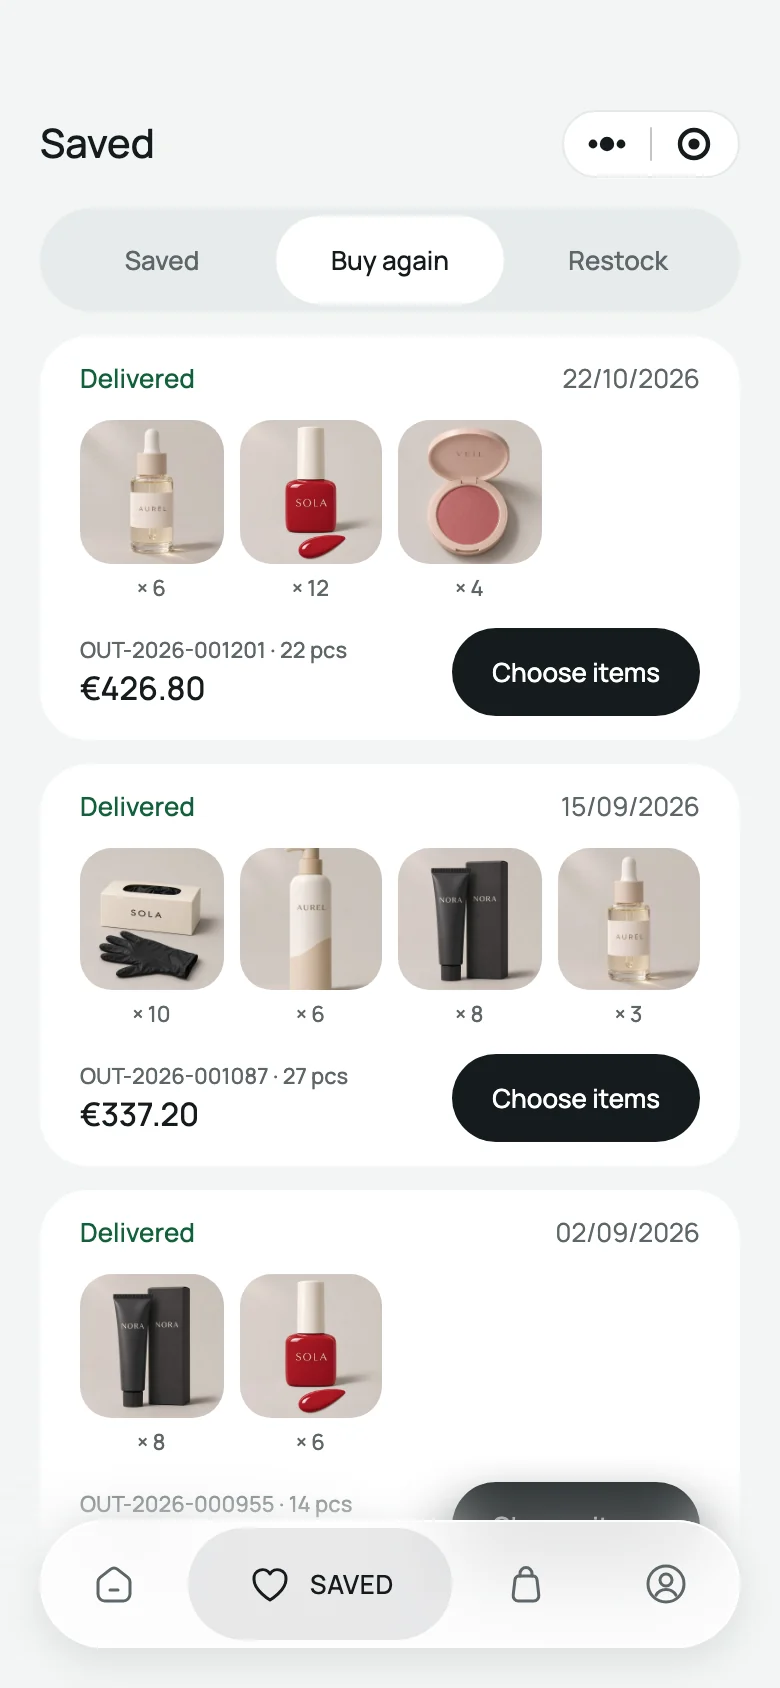
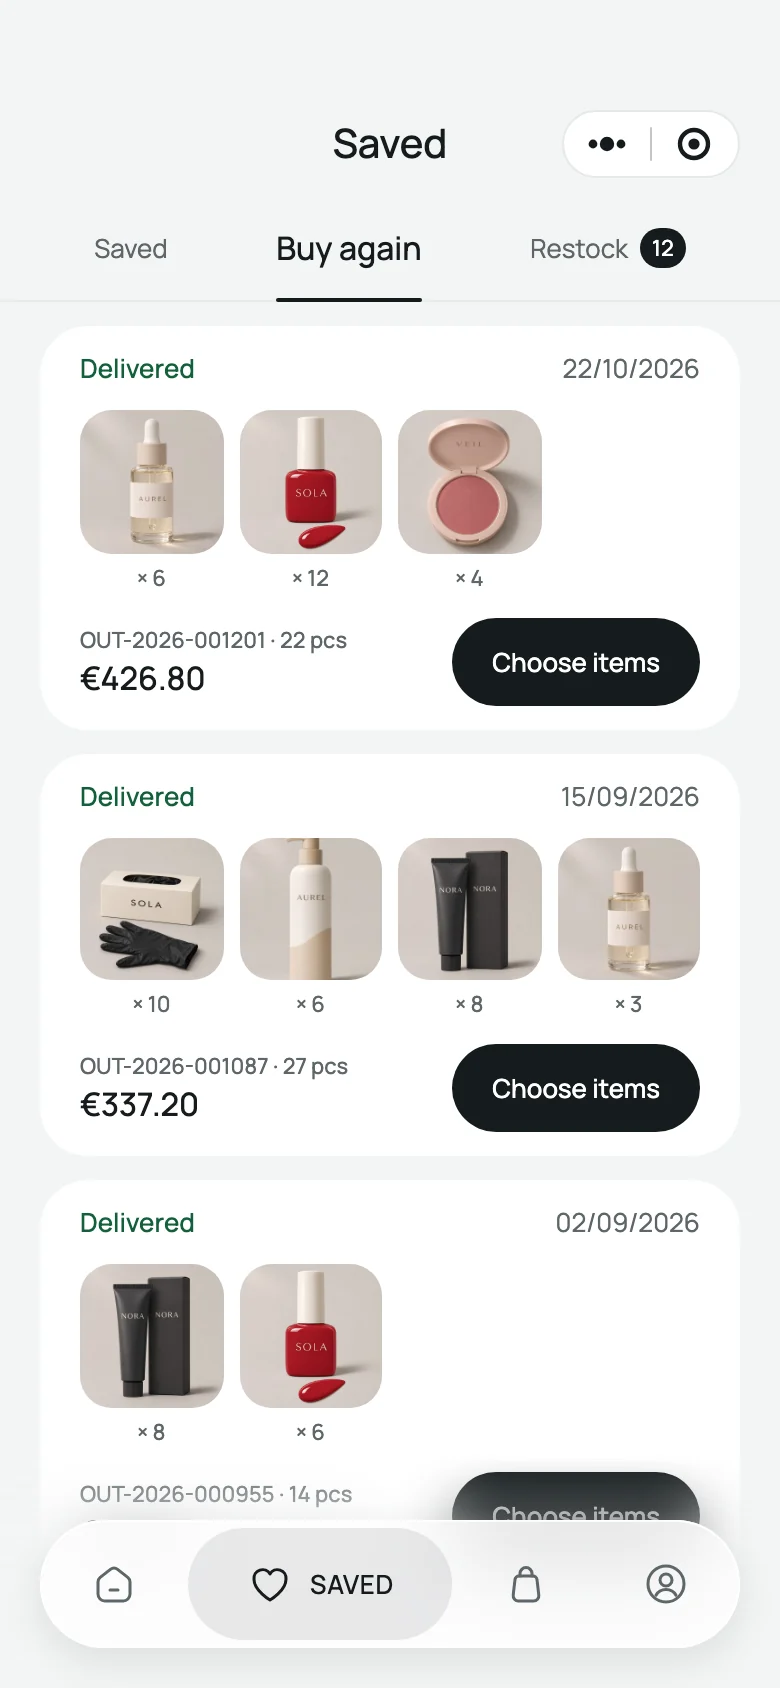
Update Saved and Restock to the two-level tabs and photo requests

diff --git a/src/app/projects/def-miniprogram-kit/RestockCallouts.tsx b/src/app/projects/def-miniprogram-kit/RestockCallouts.tsx
@@ -1,23 +1,40 @@
 import { ScreenCallouts, type Screen } from './ScreenCallouts';
 
-const screens: Screen[] = [
+/* How a sold-out item turns into registered demand. */
+const waiting: Screen[] = [
   { shot: 'stock-out', name: 'Sold out', marks: [
     { left: 12, top: 768, width: 366, height: 64, title: 'Notify me replaces Add to Bag', body: 'A sold-out item still has a next step.' },
   ] },
   { shot: 'stock-notify', name: 'Registered', marks: [
     { left: 12, top: 702, width: 366, height: 130, title: 'The tap records the demand', body: 'It is confirmed, and listed in Restock.' },
   ] },
-  { shot: 'stock-restock', name: 'Restock tab', marks: [
-    { left: 222, top: 43, width: 58, height: 58, title: 'Not in the store? Tap +', body: 'The request starts from the top right.' },
-    { left: 12, top: 380, width: 366, height: 198, flip: true, title: 'Waiting, with a date', body: 'Once back, it moves up, ready to add.' },
-    { left: 12, top: 590, width: 366, height: 108, flip: true, title: 'Your requests', body: 'Each one shows its status.' },
-  ] },
-  { shot: 'stock-request', name: 'Request a product', marks: [
-    { left: 12, top: 156, width: 366, height: 350, flip: true, title: 'Only the basics', body: 'What it is, brand, link and quantity, sent to the ERP’s request list.' },
+  { shot: 'stock-wait', name: 'Restock: waiting', marks: [
+    { left: 10, top: 218, width: 370, height: 350, flip: true, title: 'Grouped by expected date', body: 'Once back, an item moves to In stock.' },
   ] },
 ];
 
-/** Registering demand for what is sold out, and for what the store does not carry. */
-export function RestockCallouts() {
-  return <ScreenCallouts screens={screens} />;
+/* What a merchant does inside Restock. */
+const using: Screen[] = [
+  { shot: 'stock-in', name: 'Restock: in stock', marks: [
+    { left: 6, top: 98, width: 378, height: 116, flip: true, title: 'Two levels that look different', body: 'Underlined page tabs, then a capsule to filter Restock.' },
+    { left: 12, top: 218, width: 366, height: 170, flip: true, title: 'Back, one tap to add', body: 'The same card as in Saved.' },
+  ] },
+  { shot: 'stock-requests', name: 'Restock: requests', marks: [
+    { left: 14, top: 215, width: 180, height: 248, title: 'Add comes first', body: 'A product the store does not carry starts here.' },
+    { left: 197, top: 215, width: 180, height: 248, flip: true, title: 'With or without a photo', body: 'The status sits on the card as a tag.' },
+  ] },
+  { shot: 'stock-request', name: 'Request a product', marks: [
+    { left: 10, top: 102, width: 370, height: 128, flip: true, title: 'Up to three photos', body: 'Easier to show than to describe.' },
+    { left: 10, top: 232, width: 370, height: 354, flip: true, title: 'Only the basics', body: 'What it is, brand, link and quantity.' },
+  ] },
+];
+
+/** Registering demand for what is sold out. */
+export function RestockWaiting() {
+  return <ScreenCallouts screens={waiting} />;
+}
+
+/** Using Restock: what is back, what was asked for, and asking for more. */
+export function RestockInUse() {
+  return <ScreenCallouts screens={using} />;
 }

diff --git a/src/app/projects/def-miniprogram-kit/SavedTradeoff.tsx b/src/app/projects/def-miniprogram-kit/SavedTradeoff.tsx
@@ -7,19 +7,19 @@ const saved: Screen[] = [
     { left: 270, top: 434, width: 98, height: 55, title: 'Cost: whole products', body: 'The shade is chosen again, and nothing new reaches them.', cost: true },
   ] },
   { shot: 'tab-saved', name: 'Now: reasons to return', marks: [
-    { left: 8, top: 168, width: 374, height: 398, flip: true, title: 'Gain: news comes to them', body: '13% of a range’s buyers take its new shade, against 1% of others.' },
-    { left: 8, top: 578, width: 374, height: 180, flip: true, title: 'Cost: kept items move down', body: 'One scroll further, though each keeps its exact shade or size.', cost: true },
+    { left: 8, top: 154, width: 374, height: 400, flip: true, title: 'Gain: news comes to them', body: '13% of a range’s buyers take its new shade, against 1% of others.' },
+    { left: 8, top: 564, width: 374, height: 194, flip: true, title: 'Cost: kept items move down', body: 'One scroll further, though each keeps its exact shade or size.', cost: true },
   ] },
 ];
 
 const again: Screen[] = [
   { shot: 'buy-by-product', name: 'Option: by product', marks: [
-    { left: 14, top: 192, width: 362, height: 172, flip: true, title: 'Gain: one tap', body: 'One item restocks at its last quantity.' },
-    { left: 14, top: 368, width: 362, height: 346, flip: true, title: 'Cost: item by item', body: 'Repeating a whole order takes many taps.', cost: true },
+    { left: 14, top: 188, width: 362, height: 170, flip: true, title: 'Gain: one tap', body: 'One item restocks at its last quantity.' },
+    { left: 14, top: 364, width: 362, height: 348, flip: true, title: 'Cost: item by item', body: 'Repeating a whole order takes many taps.', cost: true },
   ] },
   { shot: 'tab-buy', name: 'Now: by order', marks: [
-    { left: 12, top: 164, width: 366, height: 210, flip: true, title: 'Gain: whole orders', body: 'Recognised by its pictures, then added in part or whole.' },
-    { left: 223, top: 311, width: 132, height: 52, title: 'Cost: one more step', body: 'A single item needs the order opened first.', cost: true },
+    { left: 12, top: 160, width: 366, height: 208, flip: true, title: 'Gain: whole orders', body: 'Recognised by its pictures, then added in part or whole.' },
+    { left: 221, top: 304, width: 134, height: 54, title: 'Cost: one more step', body: 'A single item needs the order opened first.', cost: true },
   ] },
 ];
 

diff --git a/src/app/projects/def-miniprogram-kit/page.tsx b/src/app/projects/def-miniprogram-kit/page.tsx
@@ -9,7 +9,7 @@ import { SiteMap, TabMap } from './Diagrams';
 import { ShadeHighlight } from './ShadeHighlight';
 import { ResearchFlow } from './ResearchFlow';
 import { SavingCallouts } from './SavingCallouts';
-import { RestockCallouts } from './RestockCallouts';
+import { RestockInUse, RestockWaiting } from './RestockCallouts';
 import { SavedTradeoff } from './SavedTradeoff';
 import { FeedCards } from './FeedCards';
 import { HomeCallouts } from './HomeCallouts';
@@ -149,8 +149,11 @@ export default function DefMiniProgramKitPage() {
             <SavedTradeoff />
           </CaseFigure>
           <CaseProse><p>Merchants asked whether what they needed was back. So Restock starts earlier: <strong>a sold-out item</strong> and <strong>a product the store does not carry</strong> can both be registered.</p></CaseProse>
-          <CaseFigure caption="From sold out to Restock, and a request for something new. Demonstration data; the ERP already collects requests, the back-in-stock notice is not built yet.">
-            <RestockCallouts />
+          <CaseFigure caption="From sold out to waiting. Demonstration data; the back-in-stock notice is not built yet.">
+            <RestockWaiting />
+          </CaseFigure>
+          <CaseFigure caption="Inside Restock. Demonstration data; the ERP collects requests today, photos are not supported yet.">
+            <RestockInUse />
           </CaseFigure>
           <CaseProse><p>Merchants need the exact item kept, so saving works per item. But it is not why they are on a product, so nothing sits beside Add to Bag.</p></CaseProse>
           <CaseFigure caption="Saving moved from the buy button to the product header. Earlier sheet recreated.">
